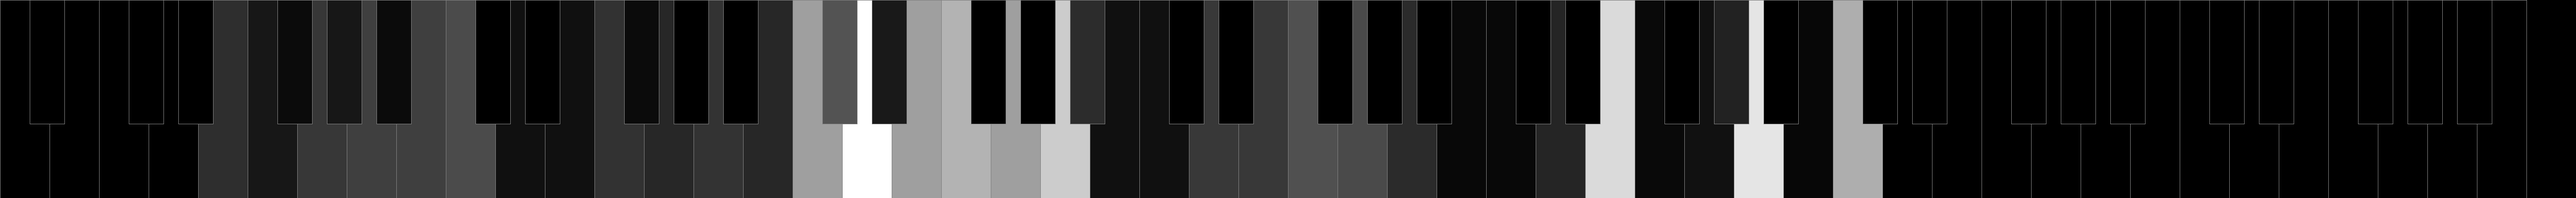
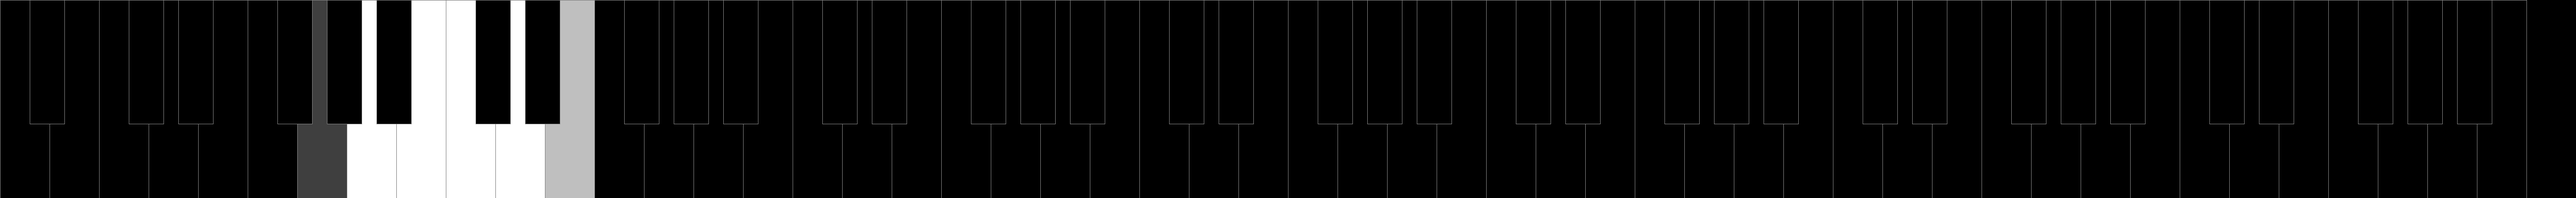
Commented, professionalized

diff --git a/Keyboard_Logger.py b/Keyboard_Logger.py
@@ -1,13 +1,12 @@
 import pygame
 import pygame.midi
-import pprint
 import time
 import csv
 import sys
-import random
 from PIL import Image
 from PIL import ImageDraw
 
+#For polling MIDI
 pygame.init()
 pygame.fastevent.init()
 pygame.midi.init()
@@ -15,13 +14,11 @@ input_id = pygame.midi.get_default_input_id()
 
 keystrokes = []
 freq_hist = [0]*120
-time_thresh = 5
+time_thresh = 5 #Number of minutes per saving of information
      
-
 def draw_diagram(freq_hist):
 
-
-        im = Image.new('RGB',(5200,400))
+        im = Image.new('RGB',(5200,400)) #Todo: make images scalable so 5200x400 isn't the only size
         draw = ImageDraw.Draw(im,"RGBA")
 
         #Draw white keys in
@@ -32,7 +29,7 @@ def draw_diagram(freq_hist):
         height = 400
         skips = []
         for i in range(0,num_keys):
-                if i not in skips:
+                if i not in skips: #this isn't necessary but kept in so white/black key drawing is similar
                         hits = 0
                         f = open(csv_name, 'rt')
                         reader = csv.DictReader(f)
@@ -43,7 +40,7 @@ def draw_diagram(freq_hist):
                         draw.polygon([((100*i)+offset,0), ((100*i)+offset, height), ((100*i)+offset+width, height), ((100*i)+offset+width,0)], fill=(color, color, color, 255), outline=(128,128,128,255))
 
 
-        #Create skips for black keys
+        #Create skips for black keys (a skip counts when there are two white keys without a black key between)
         for w in range(0,7):
                 skips.append(1+7*w)
                 skips.append(4+7*w)
@@ -68,29 +65,28 @@ def draw_diagram(freq_hist):
       
         del draw
         im.save("keyboardheatmap.png","PNG")
-        print("imagesaved")
+        print("imsaved")
 
-curr_time = time.time()
+save_time = time.time()
+old_time = save_time
 i = pygame.midi.Input( input_id )
 while True:
-        if i.poll():
+        if i.poll(): #Begin polling
                 midi_events = i.read(1)
                 if midi_events[0][0][0] != 248 and midi_events[0][0][2] != 0:
-                        old_time = curr_time
-                        curr_time = time.time()
-                        if len(keystrokes) % 20 == 0 and len(keystrokes) > 19:
-#                        if curr_time - old_time > 60*time_thresh:
-                                print("been a while huh")
-                                with open('eggs.csv', 'wb') as csvfile:
-                                    spamwriter = csv.writer(csvfile, delimiter=',',
+                        save_time = time.time()
+#                        if len(keystrokes) % 20 == 0 and len(keystrokes) > 19: #test mode -- makes csv and heatmaps very regularly
+                        if save_time - old_time > 60*time_thresh:
+                                old_time = save_time
+                                with open(str(time.strftime("%a%d%b%Y"))+'.csv', 'wb') as csvfile:
+                                    csvrow = csv.writer(csvfile, delimiter=',',
                                                             quotechar='|', quoting=csv.QUOTE_MINIMAL)
+                                    csvrow.writerow(['ID','Key_ID','Velocity','Time_Played'])
                                     for k in keystrokes:
-                                            spamwriter.writerow(k)
+                                            csvrow.writerow(k)
                                             freq_hist[k[1]] += 1
                                 draw_diagram(freq_hist)
                                             
-                        midi_events[0][0][3] = curr_time
+                        midi_events[0][0][3] = save_time
                         keystrokes.append(midi_events[0][0])
                         print(midi_events[0][0])
-
-                        
